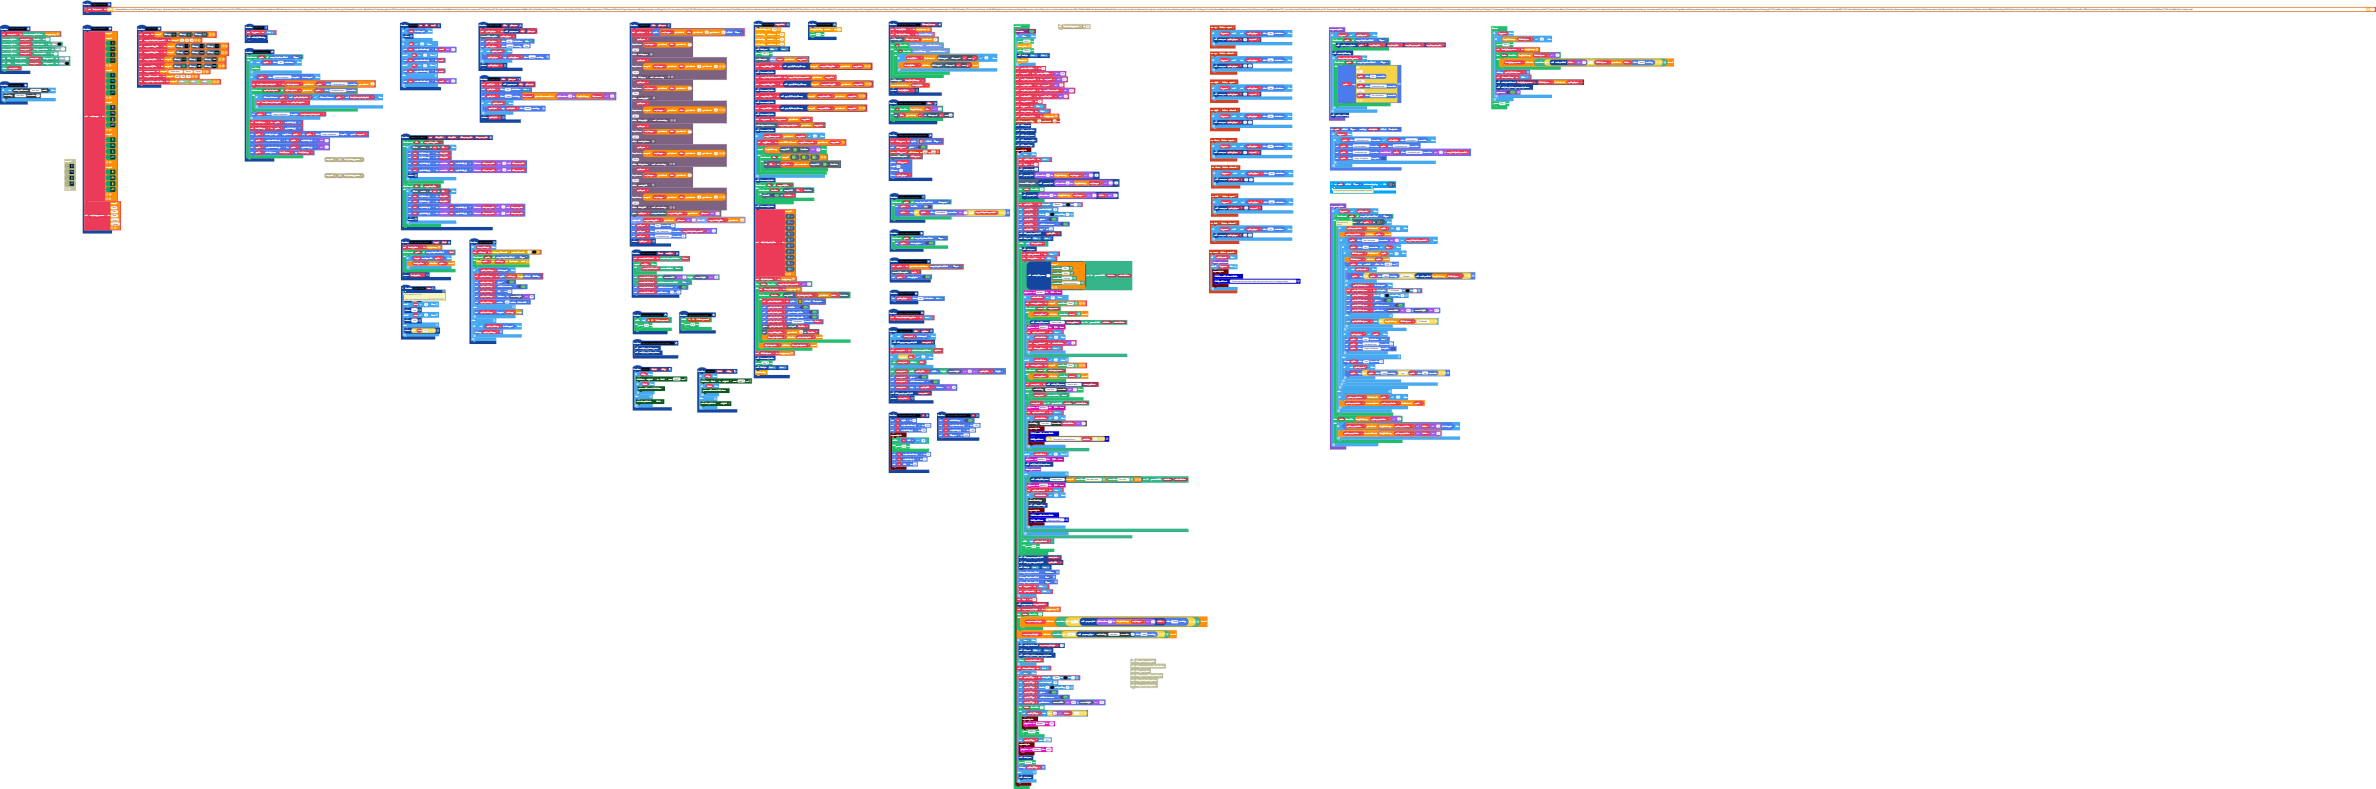
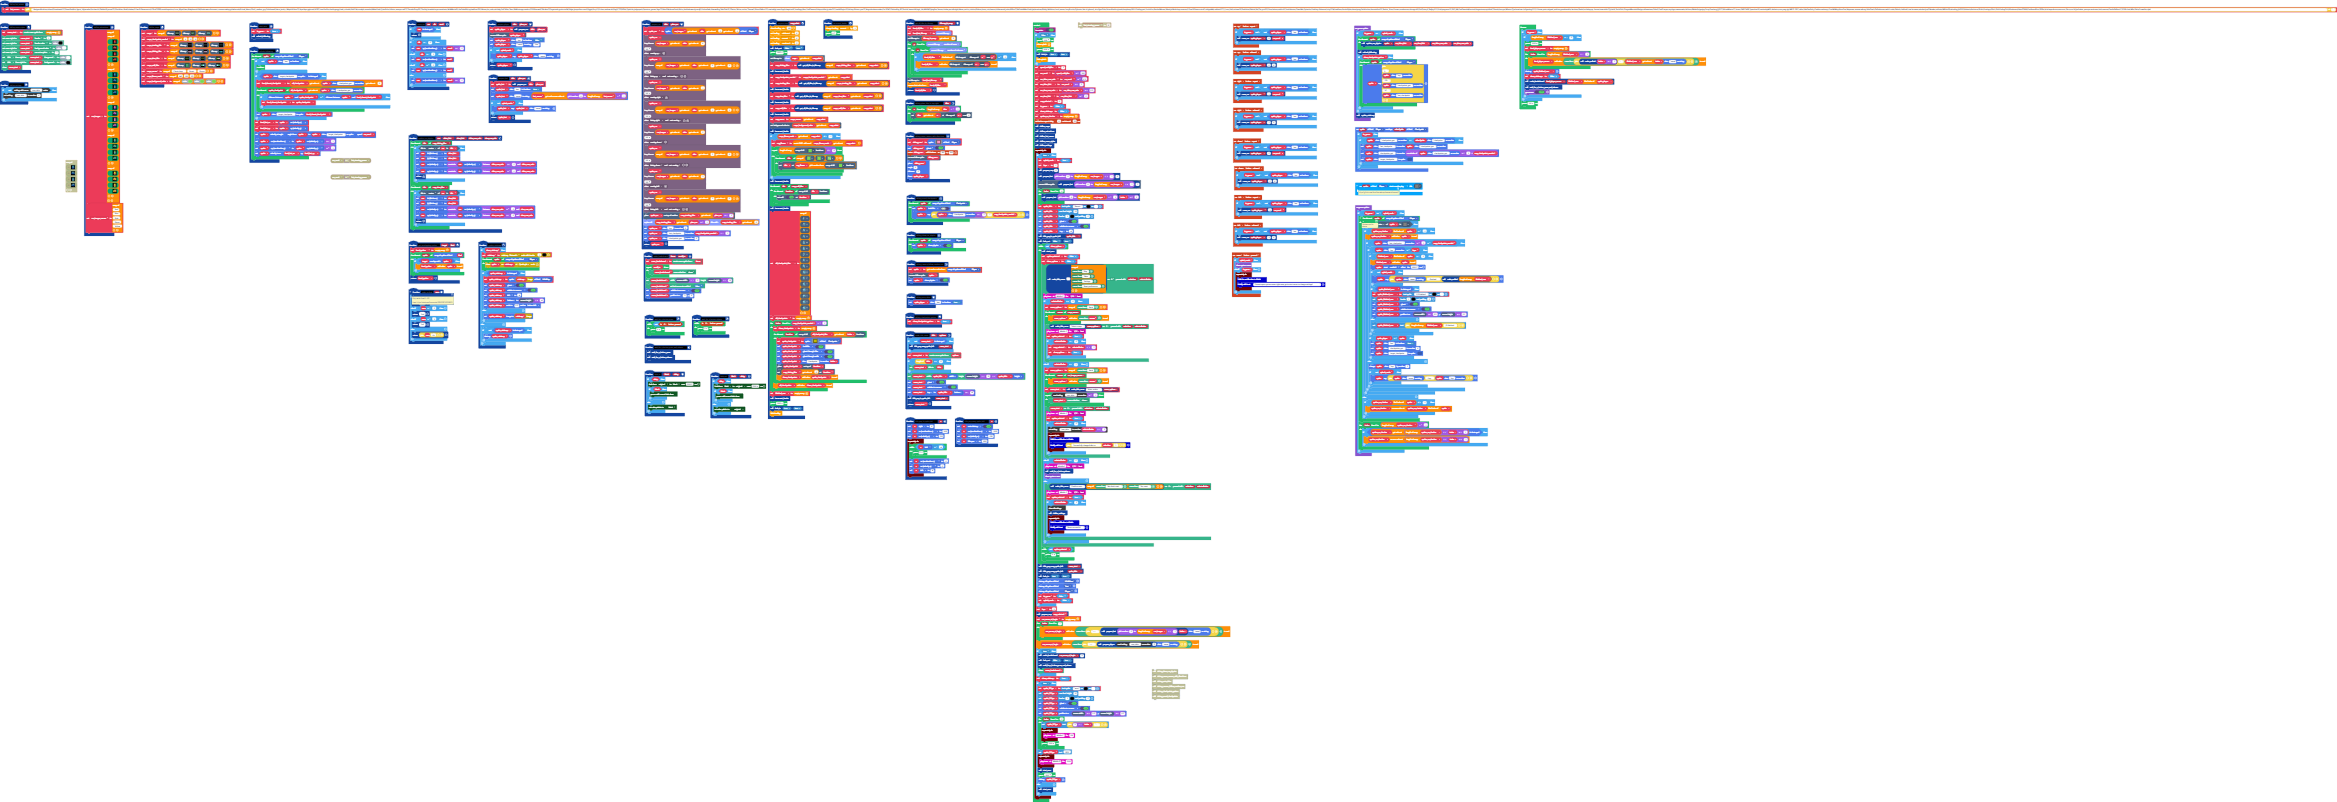
Fix checkpoint and wall issues with Ocean map

Changed region(s): [[0.0, 0.0, 0.8434, 1.0]]

diff --git a/tilemap.g.ts b/tilemap.g.ts
@@ -577,14 +577,14 @@ namespace myTiles {
             case "level26":return tiles.createTilemap(hex`020001000102`, img`
 . . 
 `, [myTiles.transparency16,myTiles.tile27,myTiles.tile37], TileScale.Sixteen);
-            case "beachside_map_wall_tiles":
-            case "level28":return tiles.createTilemap(hex`020001000102`, img`
-. . 
-`, [myTiles.transparency16,myTiles.tile27,sprites.builtin.forestTiles0], TileScale.Sixteen);
             case "beachside_map_slow_tiles":
             case "level27":return tiles.createTilemap(hex`020001000102`, img`
 . . 
 `, [myTiles.transparency16,myTiles.tile1,sprites.castle.tilePath5], TileScale.Sixteen);
+            case "beachside_map_wall_tiles":
+            case "level28":return tiles.createTilemap(hex`020001000201`, img`
+. . 
+`, [myTiles.transparency16,sprites.builtin.forestTiles0,myTiles.tile21], TileScale.Sixteen);
         }
         return null;
     })

diff --git a/main.ts b/main.ts
@@ -228,7 +228,13 @@ function prepare_map (map_select: number) {
     assets.tile`checkpoint_7_tile`,
     assets.tile`checkpoint_8_tile`,
     assets.tile`checkpoint_9_tile`,
-    assets.tile`checkpoint_10_tile`
+    assets.tile`checkpoint_10_tile`,
+    assets.tile`checkpoint_11_tile1`,
+    assets.tile`checkpoint_12_tile`,
+    assets.tile`checkpoint_13_tile0`,
+    assets.tile`checkpoint_14_tile0`,
+    assets.tile`checkpoint_15_tile0`,
+    assets.tile`checkpoint_16_tile`
     ]
     all_checkpoints = []
     for (let index = 0; index <= map_checkpoints_needed - 1; index++) {
